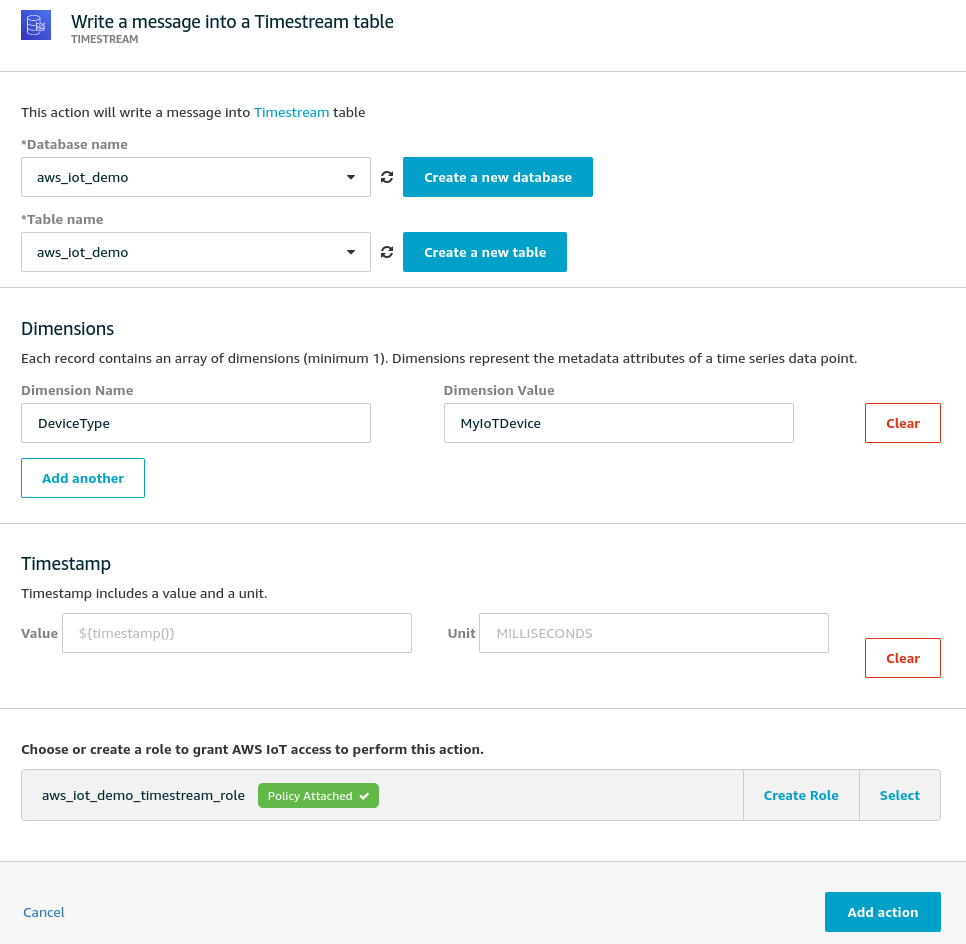
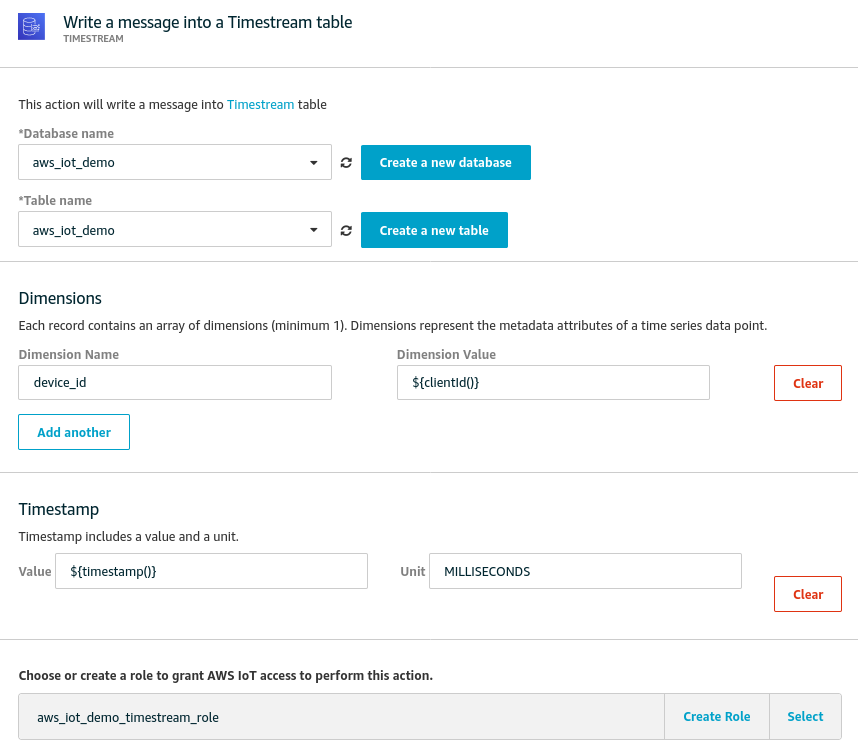
Integrated Timestream and QuickSight

diff --git a/README.md b/README.md
@@ -138,17 +138,9 @@ SELECT
   state.reported.cpu_freq as cpu_freq,
   state.reported.cpu_temp as cpu_temp,
   state.reported.ram_usage as ram_usage,
-  state.reported.ram_total as ram_total,
-  state.reported.timestamp as timestamp,
-  clientid() as device_id,
-  newuuid() as id
+  state.reported.ram_total as ram_total
 FROM '$aws/things/+/shadow/update'
 ```
-
-**Notes**
-
-- We are inserting the device_id using a [built-in SQL function](https://docs.aws.amazon.com/iot/latest/developerguide/iot-sql-functions.html) `clientid()`. We will need this for some of our Actions.
-- We are inserting a new field called id into our dataset for use with some specific data persistence options. We will discuss these later. For now, feel free to skip it.
 
 Before we can save this rule, we will also need to add an `action`. Actions define what to do with the filtered messages. This depends on our choice of database. 
 
@@ -156,11 +148,154 @@ Before we can save this rule, we will also need to add an `action`. Actions defi
 
 AWS IoT supports a large range of actions out of the box including CloudWatch, DynamoDB, ElasticSearch, Timestream DB and custom HTTP endpoints. See the [full list here](https://docs.aws.amazon.com/iot/latest/developerguide/iot-rule-actions.html).
 
-To confirm that our messages are coming through and we will be able to store them, we will use the `DynamoDBv2` action. We will also enable the `CloudWatch` action in case of errors.
+To confirm that our messages are coming through and we are able to store them, we will use the shiny, new time series database from AWS - Timestream. We will also enable the `CloudWatch` action in case of errors.
 
-#### DynamoDBv2
 
-This action stores the metrics (`cpu_usage`, `cpu_freq` etc) in separate columns in the table. Use the guided flow to create the `aws_iot_demo` table and assign permissions. Use `id` as the `primaryKey` and skip the `sortKey`.
+#### Timestream DB
+
+As of this writing Timestream is only available in 4 regions. 
+
+![Timestream Regions](aws_timestream_regions.png)
+
+It's **essential** to create the DB in the same region as your AWS IoT endpoint as the Rules Engine does not, yet, support multiple regions for the built-in actions. _You could use a Lambda function to do this for you but that's more management and cost.
+
+We will create a `Standard` (empty) DB with the name `aws_iot_demo`: 
+
+![Create Timestream DB](6_create_timestream_db.png)
+
+We will also need a `table` to store our data, so let's do that too:
+
+![Create Timestream Table](6_create_timestream_table.png)
+
+Once this is done, we can return to the rule we started creating earlier and add a new Action.
+
+Notes: 
+- The AWS IoT Rule Action for Timestream needs at least one [`dimension`](https://docs.aws.amazon.com/iot/latest/developerguide/timestream-rule-action.html) to be specified. Dimensions can be used for grouping and filtering incoming data. 
+- I used the following `key`:`value` pair using a substitution template - `device_id`: `${clientId()}`  
+- We are sending the device timestamp as part of the shadow update. If we include it as part of the `SELECT` query in the rule, Timestream will assume that `timestamp` is a measurement metric too. 
+  - Instead, we will ignore the device `timestamp` and use `${timestamp()}` as the time parameter within the Rule Action. This generates a server timestamp.
+- You will also need to create or select an appropriate IAM role that lets AWS IoT to write to Timestream.
+- Timestream creates separate rows for each metric so each shadow update creates 5 rows. 
+
+#### Query Timestream
+
+Assuming we have started our simulators again, we should start to see data being stored in Timestream. Go over to AWS Console -> Timestream -> Tables ->  `aws_iot_demo` -> Query Table. Type in the following query:
+
+```sql
+-- Get the 20 most recently added data points in the past 15 minutes. You can change the time period if you're not continuously ingesting data
+SELECT * FROM "aws_iot_demo"."aws_iot_demo" WHERE time between ago(15m) and now() ORDER BY time DESC LIMIT 20
+```
+
+You should see output similar to the one below:
+
+![Timestream Query Output](timestream_query_output.png)
+
+You will notice the separate rows for each metric. We will need a different query in order to combine the metrics into a single view, for instance for use with visualisation or analytics tools.
+
+```sql
+SELECT device_id, BIN(time, 1m) AS time_bin,
+    AVG(CASE WHEN measure_name = 'cpu_usage' THEN measure_value::double ELSE NULL END) AS avg_cpu_usage,
+    AVG(CASE WHEN measure_name = 'cpu_freq' THEN measure_value::bigint ELSE NULL END) AS avg_cpu_freq,
+    AVG(CASE WHEN measure_name = 'cpu_temp' THEN measure_value::double ELSE NULL END) AS avg_cpu_temp,
+    AVG(CASE WHEN measure_name = 'ram_usage' THEN measure_value::bigint ELSE NULL END) AS avg_ram_usage,
+    AVG(CASE WHEN measure_name = 'ram_total' THEN measure_value::bigint ELSE NULL END) AS avg_ram_total
+FROM "aws_iot_demo"."aws_iot_demo"
+WHERE time between ago(15m) and now()
+GROUP BY BIN(time, 1m), device_id
+ORDER BY time_bin desc
+```
+
+Your output should look something like this - 
+
+![Timestream Combined Output](timestream_combined_output.png)
+
+
+If you do see similar output, you are in business and we can continue to visualisation. If you don't,
+
+- Check the Cloudwatch Logs for errors
+- Verify that your SQL syntax is correct - especially the topic
+- Ensure your Rule action has the right table and an appropriate IAM Role
+- Verify that your Device Shadow is getting updated by going over to AWS IoT -> Things -> my_iot_device_1 -> Shadow
+- Looking for errors if any on the terminal where you are running the script.
+
+## Pause For Breath
+
+We have covered a lot of ground. So, let's pause and reflect. Here's what we have done so far:
+
+1. Created a Python script to monitor common system metrics.
+2. Hooked up this script to AWS IoT using the SDK and `Thing` certificates.
+3. Simulated running multiples of these devices with sending a `Shadow` update.
+4. Created a rule to persist these device shadows to `Timestream` and errors to `CloudWatch`.
+5. Verified that we are actually getting our data.
+
+Now, we only have the small matter of visualising our data and setting up alerts in case any of our metrics cross critical thresholds. 
+
+With a fresh cup of coffee, onwards...
+
+## 5 - Visualisation
+
+Storage and visualisation are, in fact, two separate operations that need two different software tools. However, these are often so tightly coupled that choice of one often dictates choice of the other. Here's a handy table that illustrates this with comments.
+
+| Storage | Visualisation | Comments  |
+| ---     | ---                   | ---       |
+| Timestream | AWS QuickSight | See demo below |
+| Timestream | Grafana | See demo below |
+| DynamoDB | AWS QuickSight | Needs CSV export to S3 first |
+| DynamoDB | Redash | Works via DQL, see demo below |
+| ElasticSearch | Kibana | Works well, see demo below |
+| ElasticSearch | Grafana | Simpler to just use Kibana |
+| InfluxDB | InfluxDB UI | WIP |
+| InfluxDB | Grafana | Simpler to just use the built-in UI |
+
+There are, of course, numerous other ways to do this. Our goal is to compare some of the more obvious options and, perhaps, pick one that works well.
+
+### Timestream + AWS QuickSight
+
+QuickSight is a managed BI tool from AWS. The [official documentation](https://docs.aws.amazon.com/timestream/latest/developerguide/QuickSight.html) to integrate Timestream with QuickSight is a little dense. However, it's pretty straightforward if you are using `us-east-1` as your region. 
+
+1. Within QuickSight, click on the user icon at the top right and then on `Manage QuickSight`.
+2. Here, go to `Security & Permissions` -> `QuickSight access to AWS services` and enable `Timestream` (see image below).
+3. Next, within QuickSight, click on `New Dataset` and select `Timestream`. Click on `Validate Connection` to ensure you have given the permissions and confirm.
+4. Upon confirmation, select `aws_iot_demo` from the discovered databases and select `aws_iot_demo` from the tables.
+5. Click on `Visualise`
+
+So far so good. I had to struggle for a while to understand how to get QuickSight to unpack the metrics from Timestream. Turns out, this is surprisingly easy if you follow this [tutorial video](https://www.youtube.com/watch?v=TzW4HWl-L8s) from AWS. Essentially,
+
+- Create multiple visualisations
+- For each visualisation, add a filter on `measure_name`. 
+- Click on `time` to add it to the X-axis. Change period to `Aggregrate: Minute`.
+- Click on `measure_value::bigint` or `measure_value::double` depending on the metric to add it to the Y-axis. Change to `Aggregate: Average`. 
+- Click on `device_id` to add separate lines for each device. This is added to `Color` in QuickSight.
+
+That's it! My dashboard looks like this - 
+
+![QuickSight Timestream Dashboard](timestream_quicksight_dashboard.png)
+
+QuickSight is a full-fledged business intelligence (BI) tool with the ability to integrate with multiple data sources. This makes it incredibly powerful as a tool to build our IoT visualisations as we could integrate with non-IoT data such as that from an ERP. More on this in a later post!
+
+### Timestream + Grafana
+
+AWS has an upcoming managed [Grafana service](https://aws.amazon.com/grafana/). Until then, we will use the managed service from [Grafana.com](https://grafana.com). You could also spin up Grafana locally or on a VM somewhere with the [docker image](https://grafana.com/docs/grafana/latest/installation/docker/).
+
+Assuming you have either signed up for Grafana Cloud or installed it locally, you should now:
+
+- Install the [Amazon Timestream plugin](https://grafana.com/grafana/plugins/grafana-timestream-datasource/installation)
+- Back in Grafana, add a new `Data Source` and search for `Timestream`. 
+- For authentication, we will use Access Key and Secret for a new IAM User.
+  - Back in AWS, create a new user with the ~`AmazonTimestreamReadOnlyAccess` policy attached~ `admin` rights. For some reason, Grafana would not connect to Timestream even with the `AmazonTimestreamFullAccess` policy attached.  
+- Once the keys are in place, click on `Save & Test`
+- Select `aws_iot_demo` in the `$_database` field to set up the default DB. Try as I might, I could not get the dropdown for `$_table` to populate.
+
+![Grafana Timestream Settings](6_grafana_timestream_settings.png)
+
+Now, click on `+ -> Dashboard` and `+ Add new panel` to get started.
+
+
+### DynamoDB For Storage
+
+The AWS IoT Rules Engine includes an action to store metrics (`cpu_usage`, `cpu_freq` etc) in separate columns in the table. Use the guided flow to create the `aws_iot_demo` table and assign permissions. Use `id` as the `primaryKey` and skip the `sortKey`.
+
+You will also need to modify the SQL query to insert this `id` field as well as the `timestamp`. 
 
 #### CloudWatch
 This action is triggered if/when there is an error while processing our rule. Again, follow the guided wizard to create a new `Log Group` and assign permissions.
@@ -177,37 +312,6 @@ Now, if you start the simulators again, you will see your DynamoDB table start t
 ![DynamoDB Table With IoT Data](5_aws_dynamodb.png)
 
 
-## Pause For Breath
-
-We have covered a lot of ground. So, let's pause and reflect. Here's what we have done so far:
-
-1. Created a Python script to monitor common system metrics.
-2. Hooked up this script to AWS IoT using the SDK and `Thing` certificates.
-3. Simulated running multiples of these devices with sending a `Shadow` update.
-4. Created a rule to persist these device shadows to `DynamoDB` and errors to `CloudWatch`.
-5. Verified that we are actually getting our data.
-
-
-Here's the kicker, though. DynamoDB is *not* a great service to use for storing time series data. Querying can be quite slow and rich queries are **very** inconvenient despite the presence of third party efforts like [DQL](https://dql.readthedocs.io/en/latest/). So, in the next couple of sections we will evaluate our options for *actually using* the data our devices are generating. 
-
-With a fresh cup of coffee, onwards...
-
-## 6 - Storage and Visualisation
-
-Storage and visualisation are, in fact, two separate operations that need two different software tools. However, these are often so tightly coupled that choice of one often dictates choice of the other. Here's a handy table that illustrates this with comments.
-
-| Storage | Visualisation | Comments  |
-| ---     | ---                   | ---       |
-| DynamoDB | AWS QuickSight | Needs CSV export to S3 first |
-| DynamoDB | Redash | Works via DQL, see demo below |
-| Timestream | AWS QuickSight | Fidgety, see demo below |
-| Timestream | Grafana | Buggy?, see demo below |
-| ElasticSearch | Kibana | Works well, see demo below |
-| ElasticSearch | Grafana | Simpler to just use Kibana |
-| InfluxDB | InfluxDB UI | WIP |
-| InfluxDB | Grafana | Simpler to just use the built-in UI |
-
-There are, of course, numerous other ways to do this. Our goal is to compare some of the more obvious options and, perhaps, pick one that works well.
 
 ### DyanamoDB + ReDash
 
@@ -248,88 +352,6 @@ You can create charts for the other metrics too and add them all to a Dashboard:
 ![Redash Dashboard](6_redash_dashboard.png)
 
 Nice! Our first IoT dashboard that can refresh in realtime :-). If you use the cloud version of Redash and don't mind the slow query speeds with DynamoDB, you have a highly scalable end-to-end solution! However, this setup will get slower with time and very expensive unless you archive old data within DynamoDB.
-
-### Timestream DB + QuickSight / Grafana
-
-As of this writing Timestream is only available in 4 regions. 
-
-![Timestream Regions](aws_timestream_regions.png)
-
-It's **essential** to create the DB in the same region as your AWS IoT endpoint as the Rules Engine does not, yet, support multiple regions for the built-in actions. _You could use a Lambda function to do this for you but that's more management and cost.
-
-We will create a `Standard` (empty) DB with the name `aws_iot_demo`: 
-
-![Create Timestream DB](6_create_timestream_db.png)
-
-We will also need a `table` to store our data, so let's do that too:
-
-![Create Timestream Table](6_create_timestream_table.png)
-
-Once this is done, we can return to the rule we set up earlier and add a new Action.
-
-Notes: 
-- The AWS IoT Rule Action for Timestream needs at least one [`dimension`](https://docs.aws.amazon.com/iot/latest/developerguide/timestream-rule-action.html) to be specified. Dimensions can be used for grouping and filtering incoming data. 
-- I used the following `key`:`value` pair using a substitution template - `device_id`: `${clientId()}` 
-  - This conflicts with the `device_id` we are adding in the SQL query. So, either remove that or use a different key name here. 
-- We are sending the device timestamp as part of the shadow update. I couldn't figure out how to use this as the timestamp in Timestream so I used `${timestamp()}` within the Rule Action. This generates a server timestamp.
-- You will also need to create or select an appropriate IAM role that lets AWS IoT to write to Timestream.
-- Timestream (like InfluxDB) creates separate rows for each metric so each shadow update creates 7 rows. 
-
-#### Query Timestream
-
-Assuming we have started our simulators again, we should start to see data being stored in Timestream. Go over to AWS Console -> Timestream -> Tables ->  `aws_iot_demo` -> Query Table. Type in the following query:
-
-```sql
--- Get the 20 most recently added data points in the past 15 minutes. You can change the time period if you're not continuously ingesting data
-SELECT * FROM "aws_iot_demo"."aws_iot_demo" WHERE time between ago(15m) and now() ORDER BY time DESC LIMIT 20
-```
-
-You should see output similar to the one below:
-
-![Timestream Query Output](6_timestream_query_output.png)
-
-If you do, you are in business and we can continue to visualisation. If you don't,
-
-- Check the Cloudwatch Logs for errors
-- Verify that your SQL syntax is correct - especially the topic
-- Ensure your Rule action has the right table and an appropriate IAM Role
-- Verify that your Device Shadow is getting updated by going over to AWS IoT -> Things -> my_iot_device_1 -> Shadow
-- Looking for errors if any on the terminal where you are running the script.
-
-#### Dashboards Using AWS Quicksight
-
-Quicksight is a managed BI tool from AWS. The [official documentation](https://docs.aws.amazon.com/timestream/latest/developerguide/Quicksight.html) to integrate Timestream with Quicksight is a little dense. However, it's pretty straightforward if you are using `us-east-1` as your region. 
-
-1. Within Quicksight, click on the user icon at the top right and then on `Manage Quicksight`.
-2. Here, go to `Security & Permissions` -> `Quicksight access to AWS services` and enable `Timestream` (see image below).
-3. Next, within Quicksight, click on `New Dataset` and select `Timestream`. Click on `Validate Connection` to ensure you have given the permissions and confirm.
-4. Upon confirmation, select `aws_iot_demo` from the discovered databases and select `aws_iot_demo` from the tables.
-
-So far so good. This is where it gets quite complex. This is what my dashboard looks like after about 5-10 minutes of fiddling:
-
-![QuickSight Timestream Dashboard](6_timestream_quicksight_dashboard.png)
-
-Simple bar charts are easy to. However, I believe, to get time series charts working we will need to use a custom query instead of the `aws_iot_demo` table in `Step 4` above. The [documentation and examples](https://docs.aws.amazon.com/timestream/latest/developerguide/sample-queries.iot-scenarios.html#sample-queries.iot-scenarios.example-queries) for complex Timeseries queries are a little involved, so I might return to this later.
-
-
-#### Dashboards & Alerts Using Grafana
-
-AWS has an upcoming managed [Grafana service](https://aws.amazon.com/grafana/). Until then, we will use the managed service from [Grafana.com](https://grafana.com). You could also spin up Grafana locally or on a VM somewhere with the [docker image](https://grafana.com/docs/grafana/latest/installation/docker/).
-
-Assuming you have either signed up for Grafana Cloud or installed it locally, you should now:
-
-- Install the [Amazon Timestream plugin](https://grafana.com/grafana/plugins/grafana-timestream-datasource/installation)
-- Back in Grafana, add a new `Data Source` and search for `Timestream`. 
-- For authentication, we will use Access Key and Secret for a new IAM User.
-  - Back in AWS, create a new user with the ~`AmazonTimestreamReadOnlyAccess` policy attached~ `admin` rights. For some reason, Grafana would not connect to Timestream even with the `AmazonTimestreamFullAccess` policy attached.  
-- Once the keys are in place, click on `Save & Test`
-- Select `aws_iot_demo` in the `$_database` field to set up the default DB. Try as I might, I could not get the dropdown for `$_table` to populate.
-
-![Grafana Timestream Settings](6_grafana_timestream_settings.png)
-
-Now, click on `+ -> Dashboard` and `+ Add new panel` to get started.
-
-
 ## TODO
 - [x] Add LICENSE
 - [x] Add screenshots
